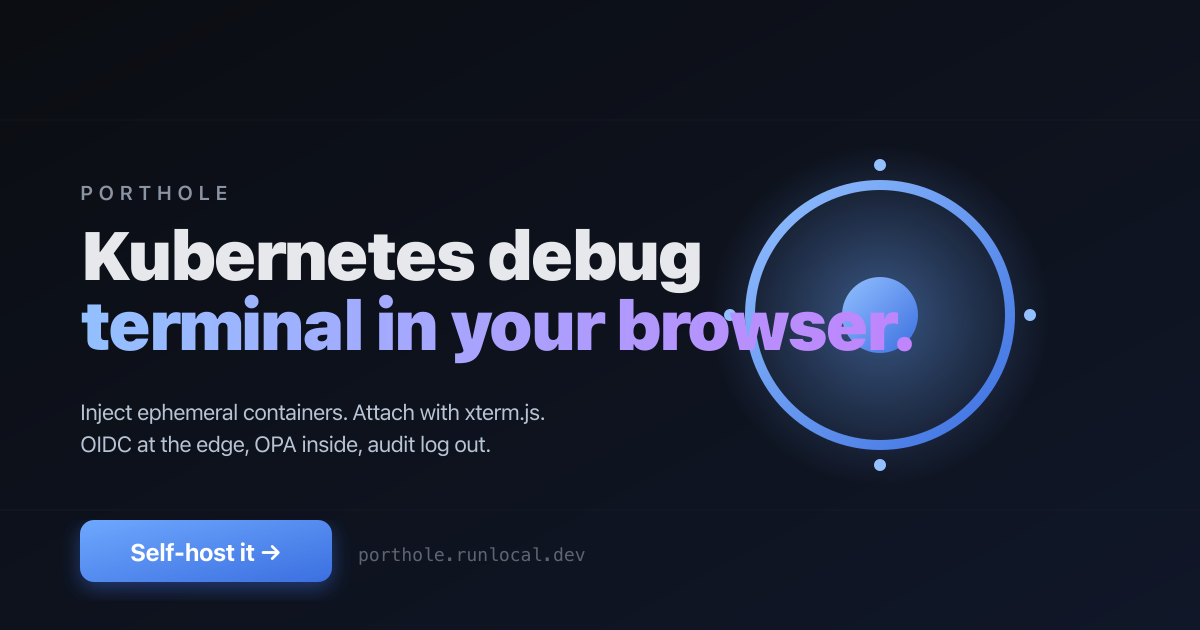
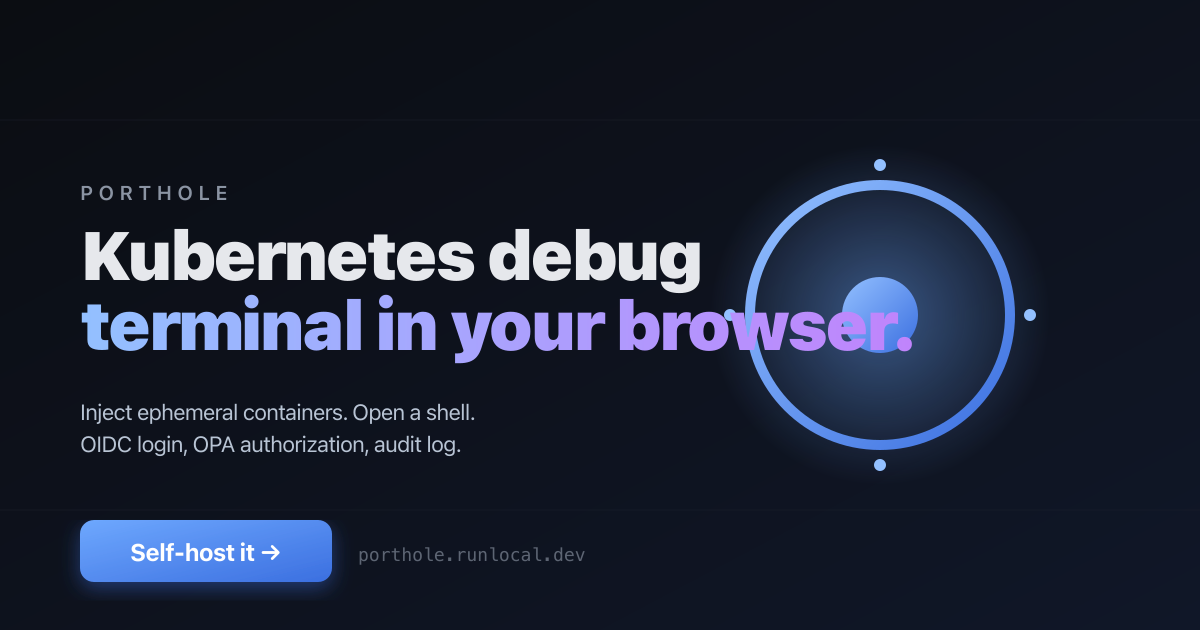
copy: plain headings and subtitles, no slogans or metaphors

Changed region(s): [[0.0925, 0.6333, 0.4625, 0.7238]]

diff --git a/index.html b/index.html
@@ -15,7 +15,7 @@
   </script>
 
   <title>porthole — Kubernetes debug terminal in your browser</title>
-  <meta name="description" content="Inject ephemeral containers into running pods and attach to them from your browser. OIDC at the edge, OPA inside, structured audit log out. Open source.">
+  <meta name="description" content="Inject ephemeral containers into running pods and open a shell in them from your browser. OIDC authentication, OPA authorization, structured audit log. Open source.">
   <link rel="canonical" href="https://porthole.runlocal.dev/">
 
   <meta name="theme-color" content="#6ea8fe" media="(prefers-color-scheme: light)">
@@ -33,7 +33,7 @@
   <meta property="og:locale" content="en_US">
   <meta property="og:url" content="https://porthole.runlocal.dev/">
   <meta property="og:title" content="porthole — Kubernetes debug terminal in your browser">
-  <meta property="og:description" content="Pick a pod, inject any debug image, attach over a single websocket. Identity verified at the edge, every action logged.">
+  <meta property="og:description" content="Pick a pod, inject any debug image, and open a shell from your browser. OIDC login at the gateway, every action logged.">
   <meta property="og:image" content="https://porthole.runlocal.dev/assets/og-image.png">
   <meta property="og:image:secure_url" content="https://porthole.runlocal.dev/assets/og-image.png">
   <meta property="og:image:type" content="image/png">
@@ -44,7 +44,7 @@
   <meta name="twitter:card" content="summary_large_image">
   <meta name="twitter:url" content="https://porthole.runlocal.dev/">
   <meta name="twitter:title" content="porthole — Kubernetes debug terminal in your browser">
-  <meta name="twitter:description" content="Pick a pod, inject any debug image, attach over a single websocket. Identity verified at the edge, every action logged.">
+  <meta name="twitter:description" content="Pick a pod, inject any debug image, and open a shell from your browser. OIDC login at the gateway, every action logged.">
   <meta name="twitter:image" content="https://porthole.runlocal.dev/assets/og-image.png">
   <meta name="twitter:image:alt" content="porthole — Kubernetes debug terminal in your browser.">
 
@@ -103,14 +103,14 @@
   <div class="container hero-grid">
     <div class="hero-copy">
       <div class="eyebrow">
-        <span class="dot"></span> Browser-driven · OIDC · OPA · Open source
+        <span class="dot"></span> OIDC · OPA · Open source
       </div>
       <h1>
         Kubernetes debug terminal,<br>
         <span class="grad">in your browser.</span>
       </h1>
       <p class="lede">
-        <strong>porthole</strong> drops an <em>ephemeral container</em> next to any running pod, attaches to it from a slick web terminal, and logs every decision. Identity verified at the edge by your OIDC gateway. Every namespace touch decided by OPA. <code>kubectl exec</code> for developers who don't need <code>kubectl</code>.
+        <strong>porthole</strong> injects an <em>ephemeral container</em> into a running pod and opens a shell in it from the browser. Your OIDC gateway authenticates the user, OPA authorizes each action, and every action goes to an audit log. Developers don't need a kubeconfig.
       </p>
       <div class="cta">
         <a href="#install" class="btn btn-primary">Self-host it</a>
@@ -122,9 +122,9 @@
         </a>
       </div>
       <ul class="hero-bullets">
-        <li>Single Go binary. Embeds the SPA. One port, REST and WS share it.</li>
-        <li>Bring your own debug image — busybox, netshoot, psql, your own forensics toolkit.</li>
-        <li>OIDC handshake stays at the gateway; porthole just verifies the JWT.</li>
+        <li>Single Go binary with the web UI embedded. REST and WebSocket on one port.</li>
+        <li>Any debug image: busybox, netshoot, psql, or your own.</li>
+        <li>The gateway handles the OIDC login. porthole only verifies the JWT.</li>
       </ul>
     </div>
 
@@ -175,16 +175,16 @@ PONG
 <section class="section" id="features">
   <div class="container">
     <p class="kicker">Why</p>
-    <h2>The friction between a developer and a misbehaving pod, removed.</h2>
+    <h2>Debug pods without a kubeconfig.</h2>
     <p class="section-lede">
-      Lens and k9s are great if every developer has cluster credentials and a kubeconfig. Most don't. porthole hands them a URL, an OIDC login, and a terminal — backed by ephemeral containers so the target pod stays exactly as deployed.
+      Lens and k9s need cluster credentials and a kubeconfig on each developer's machine. porthole gives developers a URL, an OIDC login, and a terminal. It uses ephemeral containers, so the target pod is not restarted and its containers are not changed.
     </p>
 
     <figure class="diagram demo">
       <video autoplay loop muted playsinline preload="metadata" poster="/assets/poster.jpg" aria-label="Porthole web UI demo: pick a namespace, pick a pod, inject an ephemeral container, attach to a shell.">
         <source src="/assets/porthole-demo.mp4" type="video/mp4">
       </video>
-      <figcaption>A typical session — pick a namespace, pick a pod, inject <code>netshoot</code>, get a shell.</figcaption>
+      <figcaption>Pick a namespace and a pod, inject <code>netshoot</code>, open a shell.</figcaption>
     </figure>
   </div>
 </section>
@@ -192,7 +192,7 @@ PONG
 <section class="section section-alt" id="install">
   <div class="container">
     <p class="kicker">Install</p>
-    <h2>One <code>helm install</code> away.</h2>
+    <h2>Install with Helm.</h2>
     <p class="section-lede">
       The chart at <code>oci://ghcr.io/bcollard/charts/porthole</code> ships the Deployment, ServiceAccount + cluster-wide RBAC, and an OPA sidecar pre-loaded with a sensible default policy. Bring your own OIDC-aware front (Envoy Gateway, ingress-nginx + oauth2-proxy, Traefik, …) — porthole only cares that <code>X-ID-Token</code> or <code>Authorization: Bearer …</code> contains a JWT it can verify against your IdP's JWKS.
     </p>
@@ -205,7 +205,7 @@ PONG
     </div>
 
     <div class="quickstart">
-      <h3><code>my-values.yaml</code> — two shapes to start from</h3>
+      <h3>Example <code>my-values.yaml</code></h3>
 
       <div class="tabs" id="tabs-install">
         <div class="tabs-bar" role="tablist" aria-label="Install scenarios">
@@ -282,14 +282,14 @@ PONG
 <section class="section" id="authz">
   <div class="container">
     <p class="kicker">Identity &amp; authorization</p>
-    <h2>Identity at the edge. Decisions next door.</h2>
+    <h2>Authentication at the gateway, authorization in OPA.</h2>
     <p class="section-lede">
-      porthole separates <em>who</em> from <em>what's allowed</em>. Your gateway proves who. OPA decides what. Both arrows are independent so you can swap either side without touching the other.
+      Your gateway authenticates the user. OPA decides what the user can do. You can replace either one without changing the other.
     </p>
 
     <div class="auth-stack">
       <div class="auth-block">
-        <h3>AuthN — the gateway proves who.</h3>
+        <h3>Authentication: the gateway</h3>
         <p>The gateway runs the OIDC handshake (Keycloak, Auth0, Google, …) and forwards the validated request upstream with the ID token in a header. porthole reads <code>X-ID-Token</code> first, falls back to <code>Authorization: Bearer …</code>, validates against your IdP's JWKS, and extracts <code>sub</code>, <code>email</code>, <code>groups</code>.</p>
         <pre class="code"><code><span class="dim"># SecurityPolicy on Envoy Gateway</span>
 <span class="kw">spec</span>:
@@ -304,7 +304,7 @@ PONG
       </div>
 
       <div class="auth-block">
-        <h3>AuthZ — OPA decides what.</h3>
+        <h3>Authorization: OPA</h3>
         <p>Every API call porthole serves is gated by one of <strong>six hardcoded actions</strong> (defined in <code>pkg/auth/opa.go</code>). The action, the user (from the JWT), and the live namespace labels go to OPA; OPA returns <code>{allow, reason}</code> and the reason flows straight into the audit log. "Roles" in the policy data are just your own human-friendly bundles of these actions — the action <em>names</em> themselves are not extensible from the policy.</p>
 
         <div class="actions-ref">
@@ -418,7 +418,7 @@ PONG
 <section class="section section-alt" id="audit">
   <div class="container">
     <p class="kicker">Audit</p>
-    <h2>One ECS JSON line per security-relevant action.</h2>
+    <h2>Audit log in ECS JSON.</h2>
     <p class="section-lede">
       Every inject, attach-deny, and cleanup emits a structured <code>slog</code> line on stdout shaped to the <a href="https://www.elastic.co/guide/en/ecs/8.11/index.html" target="_blank" rel="noopener">Elastic Common Schema</a> (v8.11). Picks up cleanly in Elastic, Loki, Splunk — anything that keys on <code>event.action</code>, <code>event.outcome</code>, <code>user.id</code>, or <code>kubernetes.namespace</code>, with no custom parser.
     </p>
@@ -457,7 +457,7 @@ PONG
     <p class="kicker">Compare</p>
     <h2>Porthole vs. similar projects.</h2>
     <p class="section-lede">
-      Porthole is a narrow tool: a browser-based attach-to-pod terminal that injects ephemeral containers, validates JWTs from an upstream OIDC gateway, and asks OPA for authorization. Here's how it lines up against three projects that overlap in different ways.
+      Porthole does one thing: it injects ephemeral containers and opens a shell in them from the browser, with JWTs validated from an OIDC gateway and authorization by OPA. The table compares it with three related projects.
     </p>
 
     <div class="compare-wrap">
@@ -547,22 +547,22 @@ PONG
     </div>
 
     <p class="compare-note">
-      In one line: <strong>pick Porthole</strong> when you already have an OIDC gateway, you want one central audit trail of pod attaches, and you regularly need to debug pods that don't ship with their own shell. If any one of those three is false, one of the projects above is probably a better fit.
+      <strong>Pick Porthole</strong> when you already have an OIDC gateway, you want one central audit trail of pod attaches, and you regularly need to debug pods that don't ship with their own shell. If one of these is not true, another project in the table is probably a better fit.
     </p>
   </div>
 </section>
 
 <section class="section section-alt" id="how">
   <div class="container">
-    <p class="kicker">Under the hood</p>
-    <h2>One websocket. Three byte paths. Zero magic.</h2>
+    <p class="kicker">How it works</p>
+    <h2>Output, input, and resize share one WebSocket.</h2>
     <p class="section-lede">
-      Stdout, stdin, and terminal resize each travel on the single browser ↔ porthole websocket — two as binary frames, one as a JSON text frame. The k8s <code>remotecommand</code> executor stitches the upstream half. The diagram below traces a byte from xterm.js all the way to the kubelet PTY.
+      Stdout, stdin, and terminal resize each travel on the single browser ↔ porthole websocket — two as binary frames, one as a JSON text frame. The k8s <code>remotecommand</code> executor stitches the upstream half. The diagram shows the path from xterm.js to the kubelet PTY.
     </p>
 
     <figure class="diagram">
       <img src="/assets/traffic-flow.svg" alt="Porthole traffic flow diagram. Three rows show the byte paths through an attach session — OUTPUT (kubelet PTY → xterm.js, green), INPUT (xterm.js keystrokes → io.Pipe → kube-apiserver, blue), and RESIZE (xterm.js → TerminalSizeQueue → kubelet, yellow). All three multiplex on a single WebSocket between browser and porthole.">
-      <figcaption>Three independent flows multiplexed on a single websocket: stdout (binary), stdin (binary), resize (JSON text frame).</figcaption>
+      <figcaption>stdout (binary), stdin (binary), and resize (JSON text frame) on one WebSocket.</figcaption>
     </figure>
   </div>
 </section>
@@ -621,7 +621,7 @@ PONG
         </span>
         <strong>porthole</strong>
       </div>
-      <p class="footer-tag">A small window into a running pod.<br>Browser-driven debugging for Kubernetes.</p>
+      <p class="footer-tag">Kubernetes debug terminal in your browser.</p>
     </div>
     <div>
       <h4>Project</h4>

diff --git a/404.html b/404.html
@@ -22,8 +22,8 @@
   <main style="min-height: 80vh; display:flex; align-items:center; justify-content:center;">
     <div class="container" style="text-align:center; padding: 80px 20px;">
       <div class="eyebrow" style="justify-content:center; display:inline-flex;"><span class="dot"></span> 404</div>
-      <h1 style="font-size: clamp(48px, 8vw, 90px); margin: 16px 0;"><span class="grad">Sealed shut.</span></h1>
-      <p class="lede" style="margin-inline:auto;">No porthole here — try the front door.</p>
+      <h1 style="font-size: clamp(48px, 8vw, 90px); margin: 16px 0;"><span class="grad">Page not found.</span></h1>
+      <p class="lede" style="margin-inline:auto;">This page does not exist.</p>
       <a href="/" class="btn btn-primary" style="margin-top: 20px;">Back to home</a>
     </div>
   </main>
